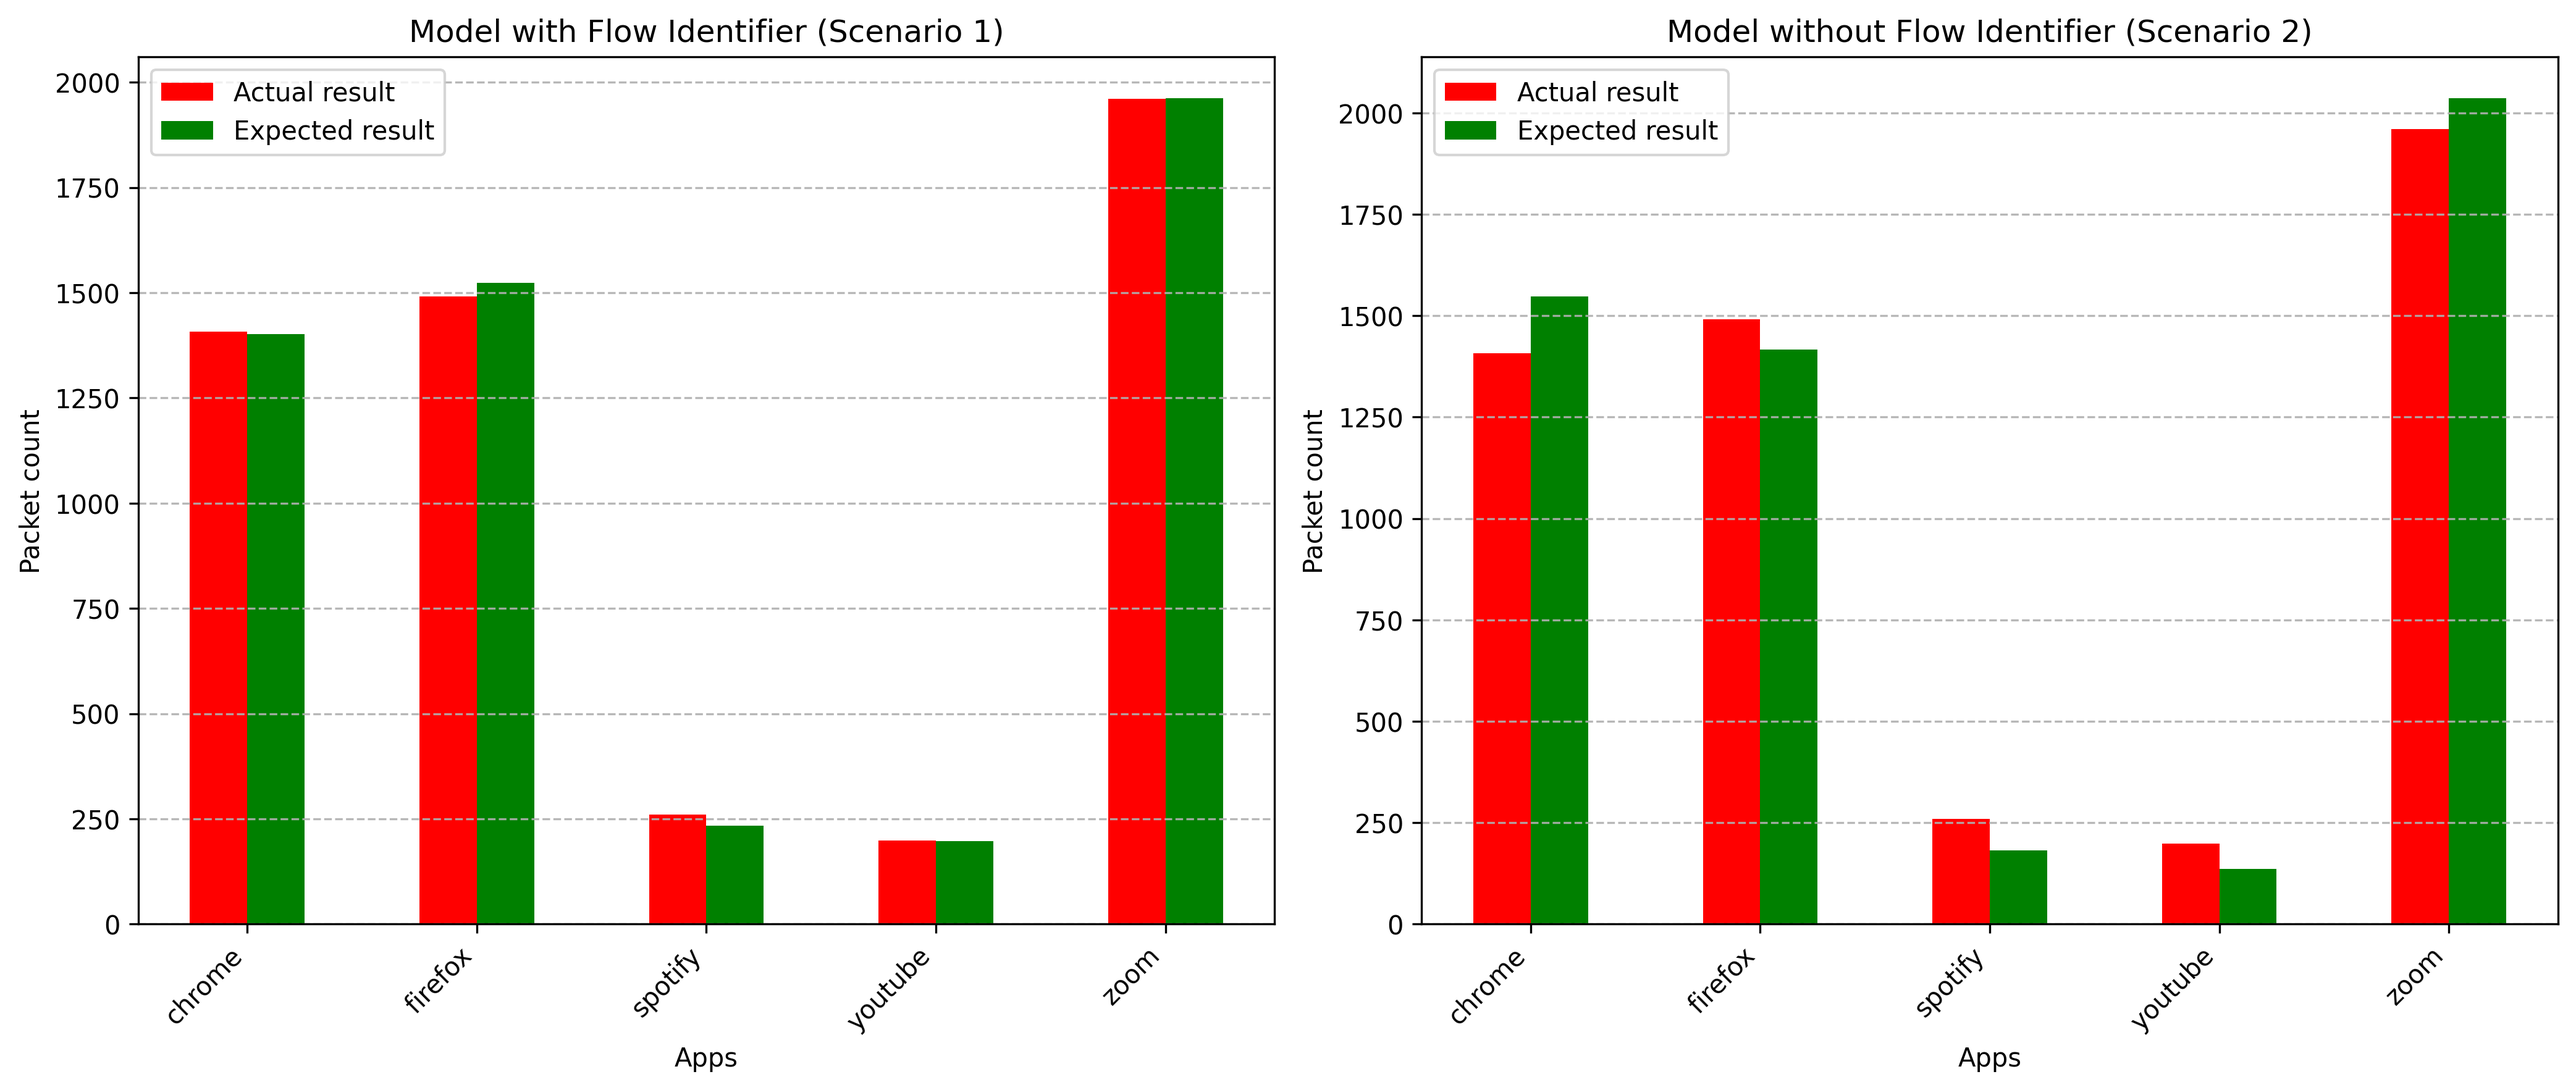
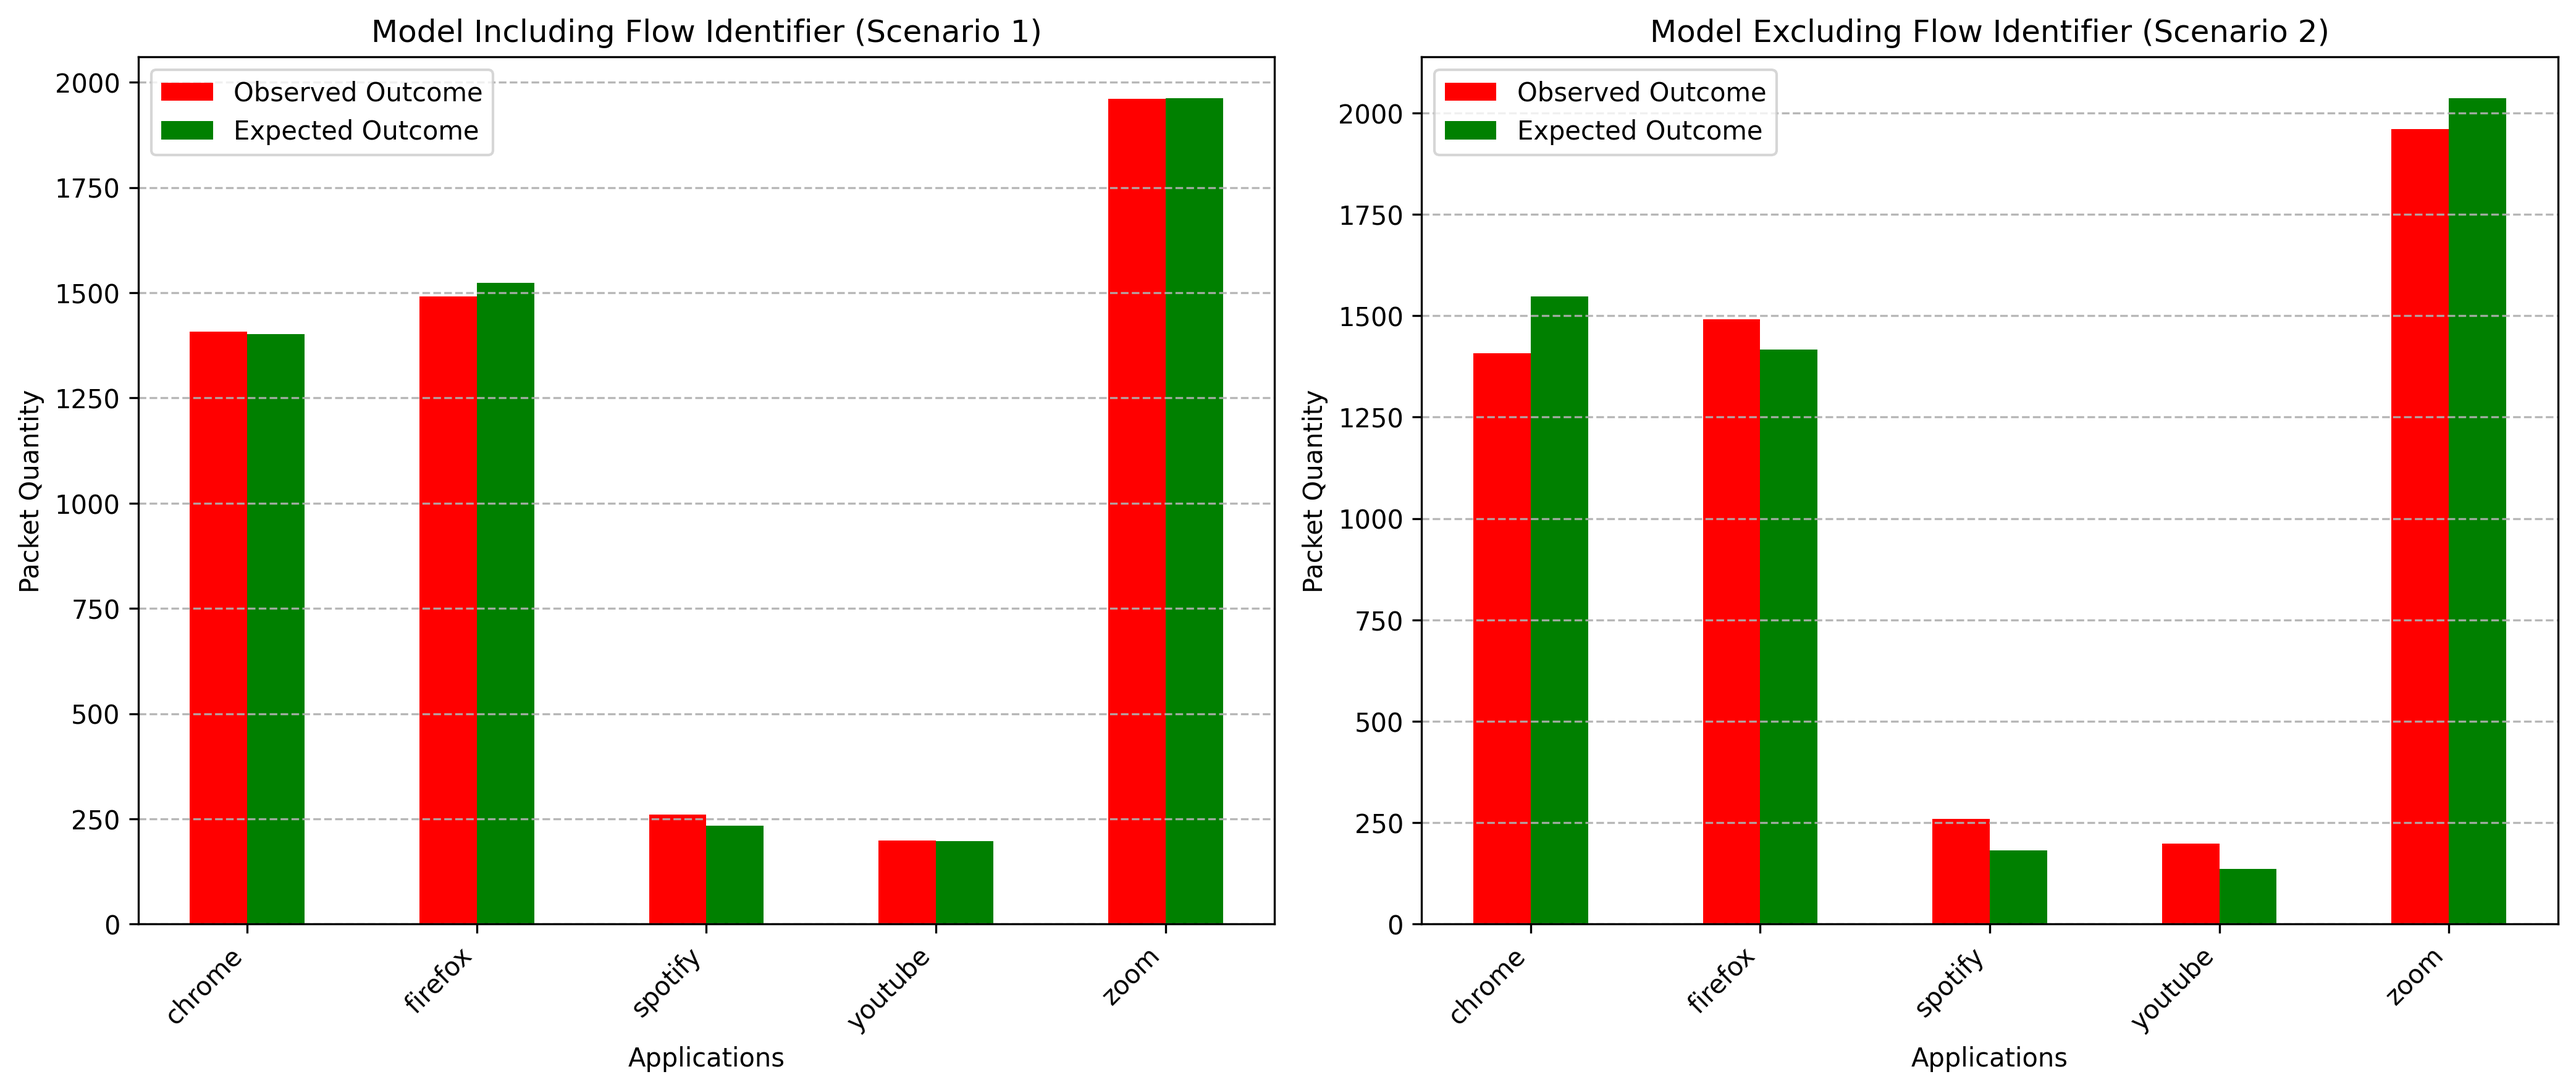
fixed randomazation in graph

diff --git a/src/attacker_pov.py b/src/attacker_pov.py
@@ -87,22 +87,22 @@ def process_pcap_files(pcap_files, output_dir):
     print(f"pcapng file data was saved")
 
 
-def build_random_forest_model(X_train, y_train):
+def build_random_forest_model(training_features, training_labels):
     """
     Create and train a Random Forest model using the given training data.
     """
     model = RandomForestClassifier(n_estimators=100, random_state=42)
-    model.fit(X_train, y_train)
+    model.fit(training_features, training_labels)
     return model
 
 
-def evaluate_model(model, X_test, y_test):
+def evaluate_model(model, testing_features, testing_labels):
     """
     Evaluate the trained model using the test data.
     Returns the model's predictions and accuracy score.
     """
-    predictions = model.predict(X_test)
-    accuracy = accuracy_score(y_test, predictions) * 100
+    predictions = model.predict(testing_features)
+    accuracy = accuracy_score(testing_labels, predictions) * 100
     return predictions, accuracy
 
 
@@ -122,28 +122,28 @@ def plot_comparison(actual_counts, predicted_counts_with_flowid, predicted_count
     Create and save side-by-side bar analyzed_data_plots comparing actual vs predicted results
     for both models (with and without flow ID).
     """
-    position_x = np.arange(len(app_labels))
-    width_of_bars = 0.25
-    figure, axes = plt.subplots(1, 2, figsize=(14, 6))
-    axes[0].bar(position_x - width_of_bars / 2, actual_counts, width_of_bars, label="Actual result", color="#FF0000")
-    axes[0].bar(position_x + width_of_bars / 2, predicted_counts_with_flowid, width_of_bars, label="Expected result", color="#008000")
-    axes[0].set_title("Model with Flow Identifier (Scenario 1)")
-    axes[1].bar(position_x - width_of_bars / 2, actual_counts, width_of_bars, label="Actual result", color="#FF0000")
-    axes[1].bar(position_x + width_of_bars / 2, predicted_counts_without_flowid, width_of_bars, label="Expected result", color="#008000")
-    axes[1].set_title("Model without Flow Identifier (Scenario 2)")
-    for ax in axes:
-        ax.set_xlabel("Apps")
-        ax.set_ylabel("Packet count")
-        ax.set_xticks(position_x)
-        ax.set_xticklabels(app_labels, rotation=45, ha="right")
-        ax.legend()
-        ax.grid(axis='y', linestyle='--', alpha=0.9)
+    index_positions = np.arange(len(app_labels))
+    bar_width = 0.25
+    graphic, panels = plt.subplots(1, 2, figsize=(14, 6))
+    panels[0].bar(index_positions - bar_width / 2, actual_counts, bar_width, label="Observed Outcome", color="#FF0000")
+    panels[0].bar(index_positions + bar_width / 2, predicted_counts_with_flowid, bar_width, label="Expected Outcome", color="#008000")
+    panels[0].set_title("Model Including Flow Identifier (Scenario 1)")
+    panels[1].bar(index_positions - bar_width / 2, actual_counts, bar_width, label="Observed Outcome", color="#FF0000")
+    panels[1].bar(index_positions + bar_width / 2, predicted_counts_without_flowid, bar_width, label="Expected Outcome", color="#008000")
+    panels[1].set_title("Model Excluding Flow Identifier (Scenario 2)")
+    for single_panel in panels:
+        single_panel.set_xlabel("Applications")
+        single_panel.set_ylabel("Packet Quantity")
+        single_panel.set_xticks(index_positions)
+        single_panel.set_xticklabels(app_labels, rotation=45, ha="right")
+        single_panel.legend()
+        single_panel.grid(axis='y', linestyle='--', alpha=0.9)
     plt.tight_layout()
     # Ensure 'attacker_plots' folder exists
-    plot_directory = os.path.join(os.path.dirname(os.path.abspath(__file__)), '..', 'res', 'attacker_plots')
-    os.makedirs(plot_directory, exist_ok=True)
-    plot_filename = os.path.join(plot_directory, "Accuracy_Comparison_Graph.png")
-    plt.savefig(plot_filename, dpi=300, bbox_inches='tight')
+    directory_path = os.path.join(os.path.dirname(os.path.abspath(__file__)), '..', 'res', 'attacker_plots')
+    os.makedirs(directory_path, exist_ok=True)
+    file_name = os.path.join(directory_path, "Accuracy_Comparison_Graph.png")
+    plt.savefig(file_name, dpi=300, bbox_inches='tight')
     plt.close()
     print(f"Graph saved")
 
@@ -174,16 +174,16 @@ def main_process(pcap_files, output_dir):
     process_pcap_files(pcap_files, output_dir)
     combined_data_file = os.path.join(output_dir, "all_csv_data.csv")
     dataset = pd.read_csv(combined_data_file)
-    (X_train_with_flowid, X_test_with_flowid, y_train_with_flowid, y_test_with_flowid), (X_train_without_flowid, X_test_without_flowid, y_train_without_flowid, y_test_without_flowid) = prepare_features_for_training(dataset)
-    model_with_flowid = build_random_forest_model(X_train_with_flowid, y_train_with_flowid)
-    model_without_flowid = build_random_forest_model(X_train_without_flowid, y_train_without_flowid)
-    predictions_with_flowid, accuracy_with_flowid = evaluate_model(model_with_flowid, X_test_with_flowid, y_test_with_flowid)
-    predictions_without_flowid, accuracy_without_flowid = evaluate_model(model_without_flowid, X_test_without_flowid, y_test_without_flowid)
+    (training_data_with_flowid, testing_data_with_flowid, training_labels_with_flowid, testing_labels_with_flowid), (training_data_without_flowid, testing_data_without_flowid, training_labels_without_flowid, testing_labels_without_flowid) = prepare_features_for_training(dataset)
+    model_with_flowid = build_random_forest_model(training_data_with_flowid, training_labels_with_flowid)
+    model_without_flowid = build_random_forest_model(training_data_without_flowid, training_labels_without_flowid)
+    predictions_with_flowid, accuracy_with_flowid = evaluate_model(model_with_flowid, testing_data_with_flowid, testing_labels_with_flowid)
+    predictions_without_flowid, accuracy_without_flowid = evaluate_model(model_without_flowid, testing_data_without_flowid, testing_labels_without_flowid)
     print(f"Accuracy with Flow Identifier (Scenario 1): {accuracy_with_flowid:.2f}%")
     print(f"Accuracy without Flow Identifier (Scenario 2): {accuracy_without_flowid:.2f}%")
     # Preparing results for the comparison plot
-    result_df = X_test_with_flowid.copy()
-    result_df["Actual_Label"] = y_test_with_flowid
+    result_df = testing_data_with_flowid.copy()
+    result_df["Actual_Label"] = testing_labels_with_flowid
     result_df["Predicted_With_Flow_ID"] = predictions_with_flowid
     result_df["Predicted_Without_Flow_ID"] = predictions_without_flowid
     app_labels = sorted(result_df["Actual_Label"].unique())
